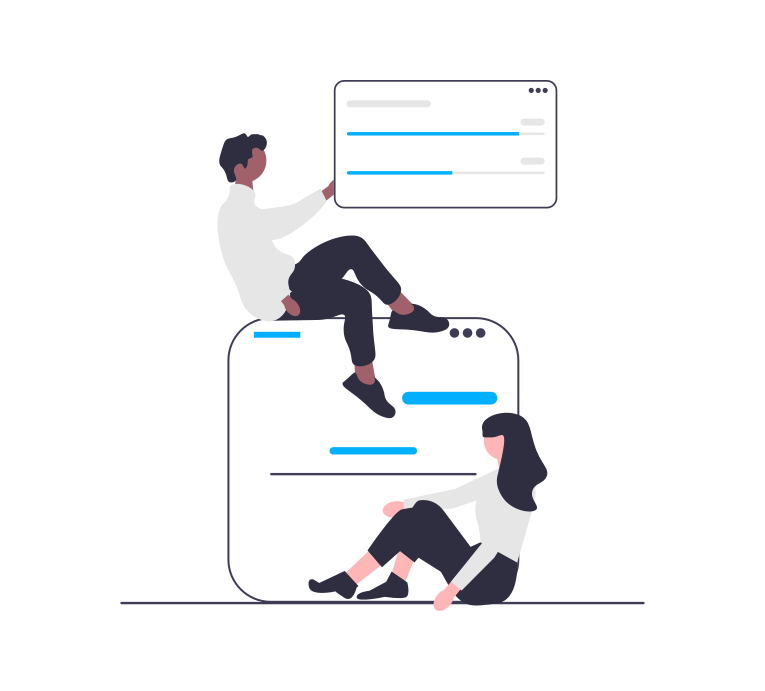
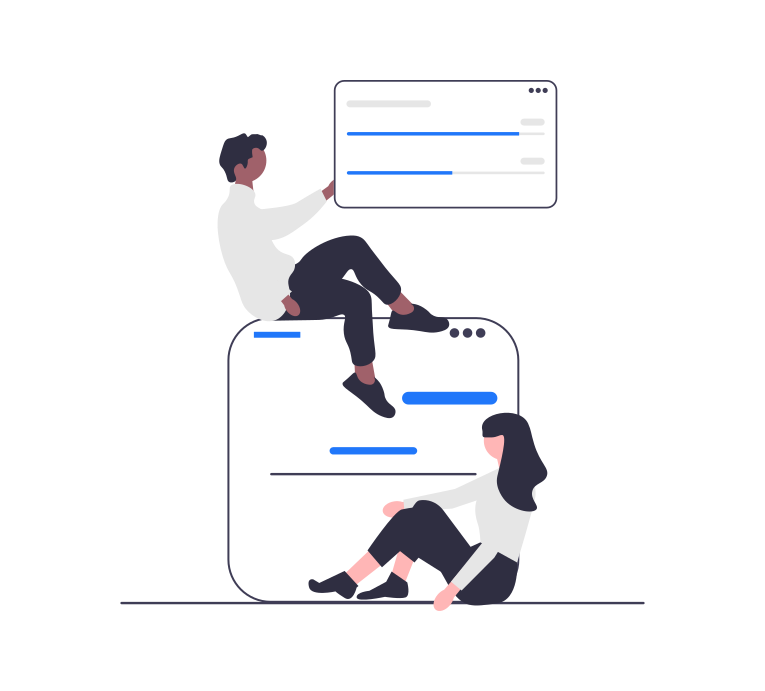
Add assets with correct theme

diff --git a/client/src/views/auth/main/index.tsx b/client/src/views/auth/main/index.tsx
@@ -1,11 +1,12 @@
 import React from 'react';
 import { startCase } from 'lodash';
-import { View } from 'react-native';
+import { Image, View } from 'react-native';
 import { useRoute } from '@react-navigation/native';
+
+import FormMain from '../../../components/input/form/main/FormMain';
 
 import { authForm, AuthMethod } from './utils/constants';
 import styles from './styles';
-import FormMain from '../../../components/input/form/main/FormMain';
 
 const AuthMain = ({ navigation: { navigate } }) => {
   const { params = {} } = useRoute();
@@ -21,6 +22,12 @@ const AuthMain = ({ navigation: { navigate } }) => {
         onSubmit={onSubmit}
         title={startCase(method)}
         onValidate={form.validate}
+        AboveForm={
+          <Image
+            source={require('../../../assets/auth/chamber_sign_in.png')}
+            style={styles.image}
+          />
+        }
       />
     </View>
   );

diff --git a/client/src/components/input/form/footer/FormFooter.styles.ts b/client/src/components/input/form/footer/FormFooter.styles.ts
@@ -1,9 +1,10 @@
 import { StyleSheet } from 'react-native';
 import { scaleX, scaleY } from '../../../../utils/methods/scaleable-units';
+import ThemeManager from '../../../../utils/ui/ThemeManger';
 
 const formFooterStyles = StyleSheet.create({
   container: {
-    marginTop: scaleY(64),
+    marginTop: scaleY(36),
     // borderWidth: 1,
     bottom: 0,
   },
@@ -12,6 +13,12 @@ const formFooterStyles = StyleSheet.create({
     borderRadius: scaleX(4),
     paddingVertical: scaleY(8),
     paddingHorizontal: scaleX(32),
+    backgroundColor: ThemeManager.theme.info,
+  },
+
+  submitButtonText: {
+    color: 'white',
+    fontWeight: '600',
   },
 });
 

diff --git a/client/src/components/input/form/main/FormMain.tsx b/client/src/components/input/form/main/FormMain.tsx
@@ -25,6 +25,7 @@ const FormMain = (props: FormMainProps) => {
     <View style={styles.container}>
       <Text style={styles.title}>{props.title}</Text>
       <View style={styles.titleDivider} />
+      {props.AboveForm}
       <FlatList
         style={styles.formContainer}
         data={Object.entries(model)}
@@ -52,7 +53,8 @@ interface FormMainProps {
   title: string;
   model: FormModel;
   onValidate: Function;
-  FooterChildren: React.ReactNode;
+  AboveForm?: React.ReactNode;
+  FooterChildren?: React.ReactNode;
   onSubmit: Function;
   style?: object;
 }

diff --git a/client/src/components/input/form/footer/FormFooter.tsx b/client/src/components/input/form/footer/FormFooter.tsx
@@ -9,7 +9,9 @@ const FormFooter = (props: FormFooterProps) => {
   return (
     <View style={styles.container}>
       <Button style={styles.submitButton} onPress={props.onSubmit}>
-        <Text>{props.submitButtonText ?? 'Submit'}</Text>
+        <Text style={styles.submitButtonText}>
+          {props.submitButtonText ?? 'Submit'}
+        </Text>
       </Button>
     </View>
   );

diff --git a/client/src/views/auth/main/styles.ts b/client/src/views/auth/main/styles.ts
@@ -1,9 +1,17 @@
 import { StyleSheet } from 'react-native';
 
+const imageSize = 180;
+
 const authMainStyles = StyleSheet.create({
   container: {
     flex: 1,
     backgroundColor: 'white',
+  },
+
+  image: {
+    width: imageSize,
+    height: imageSize,
+    alignSelf: 'center',
   },
 });
 

diff --git a/client/src/assets/auth/preload.ts b/client/src/assets/auth/preload.ts
@@ -4,6 +4,7 @@ const images = [
   require('./chamber_slide_chat.png'),
   require('./chamber_slide_like.png'),
   require('./chamber_slide_friends.png'),
+  require('./chamber_sign_in.png'),
 ];
 
 export const preloadAuthImages = () =>
